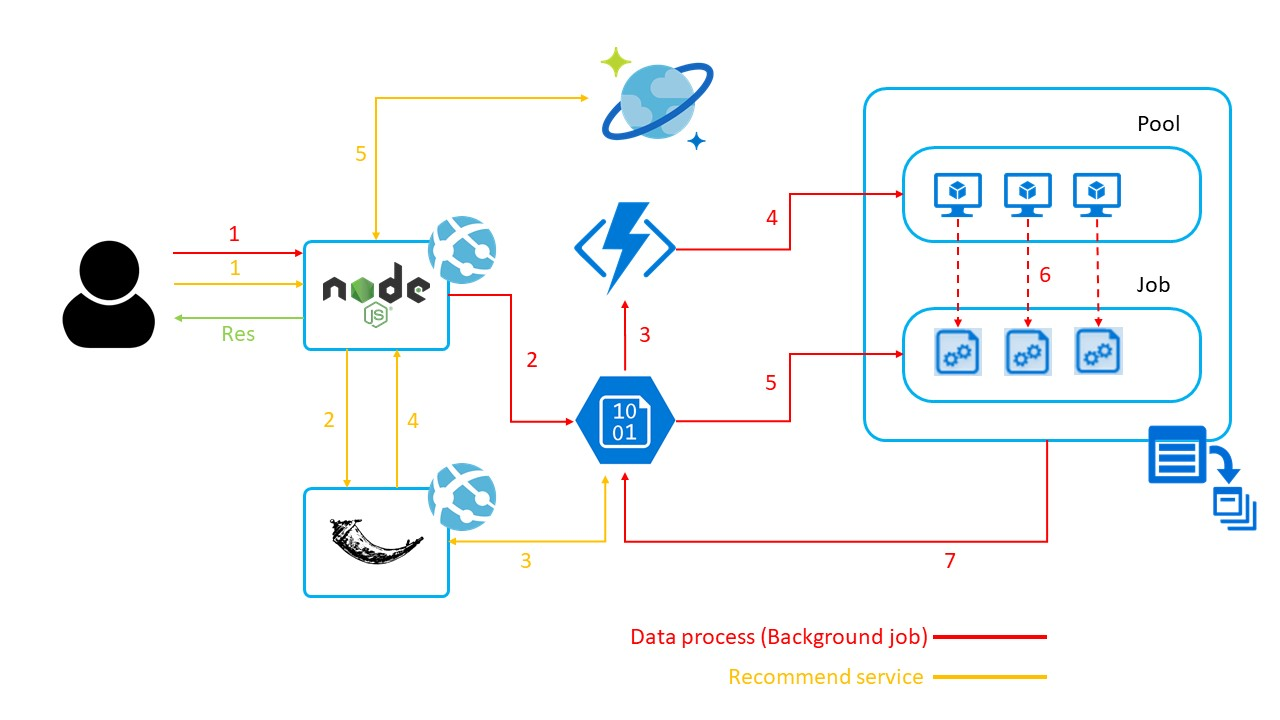
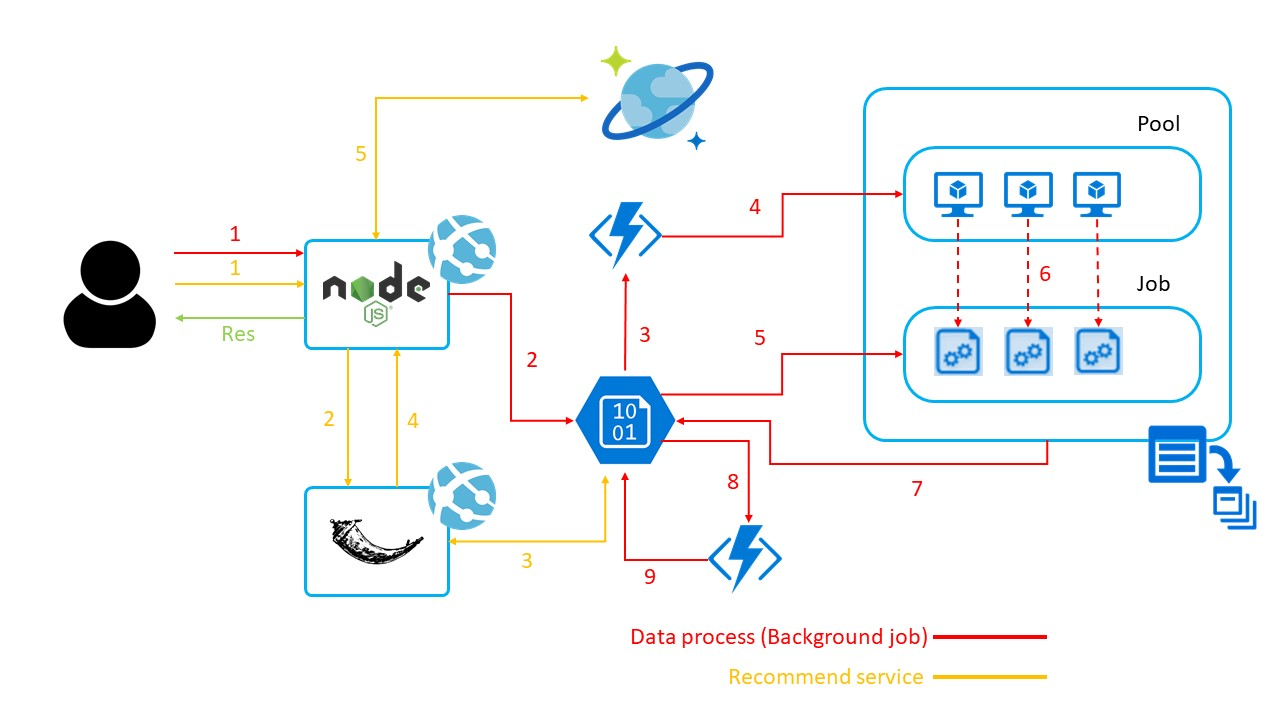
Change the architect picture and add the flow description

diff --git a/README.md b/README.md
@@ -18,5 +18,27 @@
 
 ## Website Architecture
 ![image](https://github.com/LOTINGYI/Learning-route/blob/master/public/images/github/Tim_Side_Project_2.jpg)
-  
 
+## The flow under the hood
+> ### Data process(Background job)
+> Step1: User upload their history data <br>
+> Step2: Clean the data and upload to blob storage<br>
+> Step3: Blob Trigger function app <br>
+> Step4-1: Split the file <br>
+> Step4-2: Create the batch pool (nodes based on the file size) <br>
+> Step4-3: Create the job and define the task (scrape whole url in file)<br>
+> Step5: Get the specific file and load it to the specific node <br>
+> Step6: Start to run the task (Use the portal to observe the status)<br>
+> Step7: After completing task, the scraped file will be stored in the blob<br>
+> Step8: Blob Trigger function app <br>
+> Step9: Clean the data and store the data into the destination <br>
+> 
+> <strong>Note: From step4-2 to step6 using azure batch service with multiprocess and multithread to speed up the scraping</strong>
+
+> ### Recommend service
+> Step1: User search the similar url based on their description<br>
+> Step2: Call API from flask host<br>
+> Step3: Get the data from the source, and process<br>
+> Step4: Response to node.js web app <br>
+> Step5: Store the recommend result to database
+> Res: User get the result
